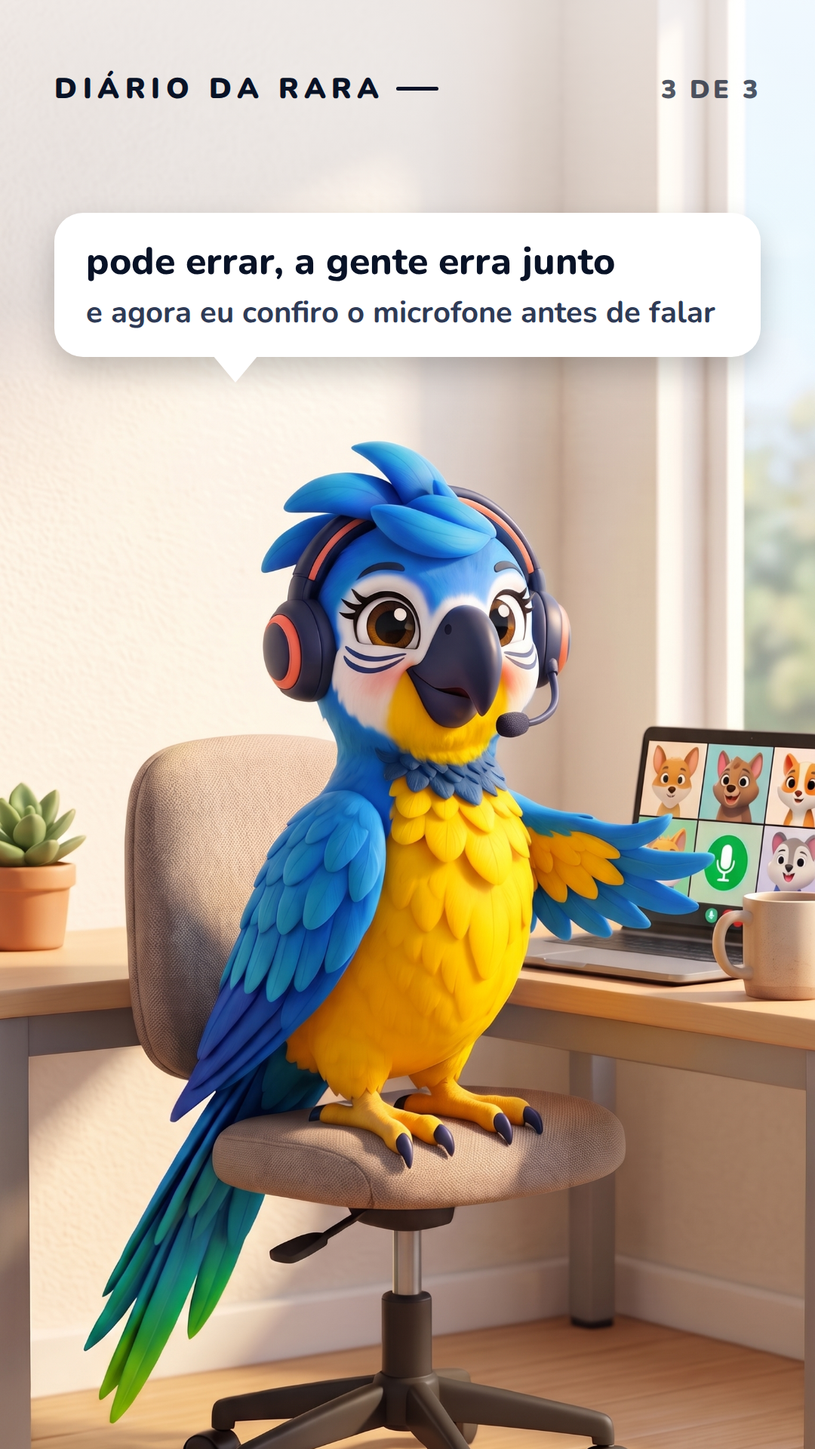
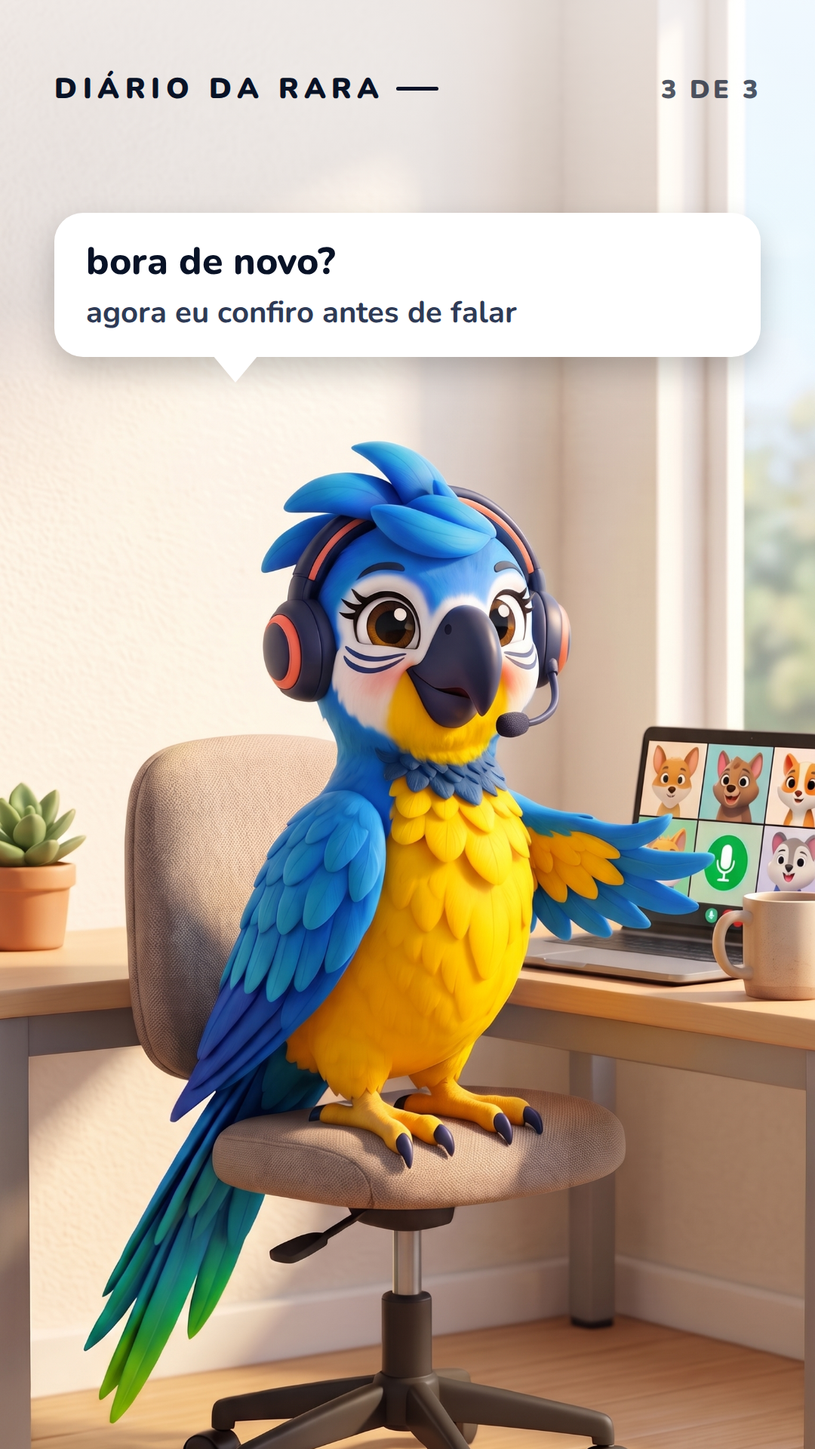
docs(arara): bordão 'Bora de novo?' (escolha do Rodrigo)

Changed region(s): [[0.1222, 0.1562, 0.7639, 0.25], [0.7944, 0.1875, 0.8556, 0.2188]]

diff --git a/semana1/_scripts/diario_qua_3.html b/semana1/_scripts/diario_qua_3.html
@@ -16,7 +16,7 @@
 </style></head><body><div id="post">
 <div class="bg" style="background-image:url('../../semana_23_29_diario/geradas/qua_3.jpg')"></div><div class="veil"></div>
 <div class="sel">DIÁRIO DA RARA</div><div class="pg">3 DE 3</div>
-<div class="bal" id="bal" style=""><div>pode errar, a gente erra junto</div><small>e agora eu confiro o microfone antes de falar</small></div></div>
+<div class="bal" id="bal" style=""><div>bora de novo?</div><small>agora eu confiro antes de falar</small></div></div>
 <script>
 const b=document.getElementById('bal');const topo=589;const bottomMax=topo-80;
 // ancora o balão logo acima do topo do personagem (rabinho 36 px) e deixa crescer para cima

diff --git a/semana1/_scripts/diario_dom_3.html b/semana1/_scripts/diario_dom_3.html
@@ -16,7 +16,7 @@
 </style></head><body><div id="post">
 <div class="bg" style="background-image:url('../../semana_23_29_diario/geradas/dom_3.jpg')"></div><div class="veil"></div>
 <div class="sel">DIÁRIO DA RARA</div><div class="pg">3 DE 3</div>
-<div class="bal" id="bal" style=""><div>tudo bem, a gente erra junto</div><small>segunda tem mais</small></div></div>
+<div class="bal" id="bal" style=""><div>tudo bem, bora de novo?</div><small>segunda tem mais</small></div></div>
 <script>
 const b=document.getElementById('bal');const topo=648;const bottomMax=topo-80;
 // ancora o balão logo acima do topo do personagem (rabinho 36 px) e deixa crescer para cima

diff --git a/semana_23_29_diario/compor_telas.py b/semana_23_29_diario/compor_telas.py
@@ -13,7 +13,7 @@ EPS = {
  'qua': dict(img=['qua_call_v2.jpg', 'qua_2.jpg', 'qua_3.jpg'], sel='DIÁRIO DA RARA', topo=[589, 520, 589], titulo='A call que só eu ouvi', kw='só eu',
    telas=[ ['10h, call importante, eu estava inspirada'],
            ['falei por dez minutos', '<small>o microfone estava no mudo</small>'],
-           ['pode errar, a gente erra junto', '<small>e agora eu confiro o microfone antes de falar</small>'] ]),
+           ['bora de novo?', '<small>agora eu confiro antes de falar</small>'] ]),
  'sex': dict(img=['sex_fila_v1.jpg', 'sex_2.jpg', 'sex_3.jpg'], sel='DIÁRIO DA RARA', topo=[819, 819, 819], titulo='A fila da Black Friday', kw='fila',
    telas=[ ['a fila dá duas voltas no poleiro'],
            ['aprendi duas palavras na fila', '<small>sale, liquidação</small><small>discount, desconto</small>'],
@@ -25,7 +25,7 @@ EPS = {
  'dom': dict(img=['dom_resumo_v2.jpg', 'dom_2.jpg', 'dom_3.jpg'], sel='DIÁRIO DA RARA', topo=[648, 429, 648], titulo='O resumo da semana', kw='resumo',
    telas=[ ['domingo é dia de contar os micos'],
            ['errei na call, errei na fila e errei a hora de chegar'],
-           ['tudo bem, a gente erra junto', '<small>segunda tem mais</small>'] ]),
+           ['tudo bem, bora de novo?', '<small>segunda tem mais</small>'] ]),
 }
 CSS = """@font-face{font-family:'Nunito';src:url('../_fontes/Nunito.ttf');font-weight:200 1000}
 @font-face{font-family:'Mochiy';src:url('../_fontes/MochiyPopOne-Regular.ttf')}

diff --git a/rara_sistema_de_marca_v6.md b/rara_sistema_de_marca_v6.md
@@ -220,7 +220,7 @@ No app, por enquanto só cargos neutros de gênero, até existir o campo "Como p
 | Bordão | Uso |
 | --- | --- |
 | Solta o bico! | Antes de falar, quando a pessoa trava. Também é a assinatura sonora |
-| Pode errar, a gente erra junto. | Depois de qualquer erro |
+| Bora de novo?. | Depois de qualquer erro |
 | Papagaio repete. Arara conversa. | Manifesto e campanhas |
 | Bora ensaiar? | Convite para a sessão |
 | Que coisa Rara! | Acerto difícil |
@@ -622,13 +622,13 @@ Visual do Modo carente: fundo em degradê roxo para rosa, a Rara olhando para a 
 | Formato | Estrutura | Inspiração |
 | --- | --- | --- |
 | A. Rara falando | Gancho (0–2 s), fala com legenda (2–12 s), punchline em caixa alta cinética (12–14 s), cartão final | Tipografia cinética com a personagem atravessando as letras |
-| B. Cena encenada | 3 a 5 planos de 1 a 2 s num cenário real: a Rara se enrola, vira o jogo, e a moral é "Pode errar, a gente erra junto." | Plano-herói com elementos voando |
+| B. Cena encenada | 3 a 5 planos de 1 a 2 s num cenário real: a Rara se enrola, vira o jogo, e a moral é "Bora de novo?." | Plano-herói com elementos voando |
 | C. Tela do app + reação | Celular inclinado em 3D, cards da interface saltando para fora da tela, a Rara puxando a correção para fora | Celular em 3D e interface flutuando |
 | D. Meme e trend | Áudio em alta, com a Rara no lugar do personagem | Formatos virais do momento |
 | E. 16 idiomas | A Rara na frente de uma palavra gigante repetida ("ENGLISH ENGLISH", "ESPAÑOL", "日本語"...), com fundo e palavra trocando a cada batida | Produto girando diante de palavras repetidas |
 | F. Antes e depois | Frase travada em cinza ("renderizando...") e depois a frase fluente colorida, com a Rara comemorando | Revelação do render cinza para o colorido |
 | G. Abertura de marca | A Rara montada traço a traço até virar o ícone do app | Mascote montada e simplificada |
-| H. Manda o áudio | O áudio do seguidor tocando com a forma de onda na tela, a correção com trocadilho e o "Pode errar, a gente erra junto." | Formato próprio |
+| H. Manda o áudio | O áudio do seguidor tocando com a forma de onda na tela, a correção com trocadilho e o "Bora de novo?." | Formato próprio |
 
 ### 6.6 Calendário semanal
 
@@ -708,7 +708,7 @@ A Rara vive uma história contínua no perfil, não posts soltos.
 **Legendas:**
 - "Quem nunca empurrou a porta escrita PULL que atire a primeira pena."
 - "Salva esse carrossel e me agradece na reunião de segunda."
-- "Comenta a tradução. Pode errar, a gente erra junto. Eu corrijo com carinho e um trocadilho péssimo."
+- "Comenta a tradução. Bora de novo?. Eu corrijo com carinho e um trocadilho péssimo."
 
 **Pautas iniciais** (além das peças dos lotes 7 e 13):
 - Rara reage: formato "ninguém: / absolutamente ninguém: / eu na call:" com a Rara dizendo "sorry?" pela 3ª vez.
@@ -911,7 +911,7 @@ Verde e coral só aparecem como fundo ou destaque, nunca como cor de texto.
 | Meu consagrado, minha consagrada | Volta depois de sumir |
 | Comandante | Começo de trilha ou desafio |
 
-- Bordões: "Solta o bico!", "Pode errar, a gente erra junto.", "Bora ensaiar?", "Que coisa Rara!", "Guardei seu lugar.".
+- Bordões: "Solta o bico!", "Bora de novo?.", "Bora ensaiar?", "Que coisa Rara!", "Guardei seu lugar.".
 - Diante de erro, ela comemora a tentativa, faz um trocadilho com o erro e, às vezes, conta um mico dela.
 - O elogio é sempre concreto, sobre algo que a pessoa fez de verdade.
 - Nunca usa: "querido aluno", "parabéns pelo seu progresso", "você falhou", "não desista".
@@ -1276,7 +1276,7 @@ Na edição, a tela real do app (gravação) entra dentro do celular, e o card m
 | 1 | "Rara at a fancy restaurant table, raising a wing to call the waiter, confident." | "She raises her wing with exaggerated confidence." | "Give me the account, please!" |
 | 2 | "A confused waiter seen from behind, holding a bank statement, Rara in the background." | "Waiter turns slowly, comedic pause." | — |
 | 3 | "Rara covering her face with both wings, blushing, crest over one eye." | "She hides her face and peeks through the feathers." | "Pedi o extrato do banco..." |
-| 4 | "Rara holding the check proudly, big smile." | "Bouncy proud pose." | "Can I have the check, please? Pode errar, a gente erra junto." |
+| 4 | "Rara holding the check proudly, big smile." | "Bouncy proud pose." | "Can I have the check, please? Bora de novo?." |
 
 **R5. Antes e depois (10 s)**
 
@@ -1316,7 +1316,7 @@ Cenas de dupla, com as canônicas C01 e C03 como referência:
 
 Gere em 1:1 sobre #8C8C8C, remova o fundo e exporte em 512 × 512. Use as expressões e gestos dos lotes 2 e 4, mais estes itens:
 
-F01 "Solta o bico" (bico aberto com ondas de som) · F02 Pode errar, a gente erra junto. (joinha rindo) · F03 drama de novela · F04 chorando com o celular · F05 dançando · F06 dormindo no teclado · F07 café na mão, olhos de sono · F08 comemorando com confete · F09 revirando os olhos · F10 "presidente" (continência) · F11 derretendo de vergonha · F12 coração com as asas
+F01 "Solta o bico" (bico aberto com ondas de som) · F02 Bora de novo?. (joinha rindo) · F03 drama de novela · F04 chorando com o celular · F05 dançando · F06 dormindo no teclado · F07 café na mão, olhos de sono · F08 comemorando com confete · F09 revirando os olhos · F10 "presidente" (continência) · F11 derretendo de vergonha · F12 coração com as asas
 
 ### 7.13 Lote 11: datas e lojas
 
@@ -1365,7 +1365,7 @@ Os blocos [VIDEO], [VOZ RARA] e [VOZ RARO] estão na seção 10 do prompt fundam
 | QZ01 | Pergunta | "Rara pointing up toward empty space at the top of the frame where a quiz sticker will go, eyebrow-like crest feather raised, teasing grin, yellow background, character in the lower half." | Pergunta + sticker de quiz |
 | QZ02 | Suspense | "Rara biting the tip of a feather nervously, eyes darting to the side, drumroll pose, yellow background." | "E aí? Qual você marcou?" |
 | QZ03 | Acertou | "Rara jumping with joy, crest fanned out with sparkles, confetti feathers, green background." | "ACERTOU!" (Mochiy) + explicação curta |
-| QZ04 | Errou | "Rara dramatically fainting backwards onto a cushion, wing on forehead, crest drooping, coral background, funny not sad." | "Pode errar, a gente erra junto." + a resposta certa |
+| QZ04 | Errou | "Rara dramatically fainting backwards onto a cushion, wing on forehead, crest drooping, coral background, funny not sad." | "Bora de novo?." + a resposta certa |
 | QZ05 | Placar | "Rara holding a small blank scoreboard with both wings, proud, purple background." | "X% acertaram. Que coisa Rara!" |
 
 **12C. Bastidores do app**
@@ -1441,7 +1441,7 @@ Cada quadro é uma imagem separada e vira um slide do carrossel (4:5), com capa 
 | T1. A porta | 1 | "Rara confidently walking toward a glass door of a coffee shop, chest out." | — |
 | | 2 | "Rara pulling the door handle hard, the door does not move, confused." | "PUSH" na porta |
 | | 3 | "Rara pulling with both wings and one foot on the wall, crest messy, people watching inside." | — |
-| | 4 | "Rara finally pushes the door and stumbles inside, embarrassed laugh, waving at the camera." | "PUSH é empurrar. Pode errar, a gente erra junto." |
+| | 4 | "Rara finally pushes the door and stumbles inside, embarrassed laugh, waving at the camera." | "PUSH é empurrar. Bora de novo?." |
 | T2. Microfone mudo | 1 | "Rara in a video call at a desk with a laptop, wearing her headset, talking passionately with big gestures." | "Eu falando o melhor inglês da minha vida" |
 | | 2 | "Close-up of the laptop screen showing [ONÇA] in a small video window, confused face, pointing at her own ear." | — |
 | | 3 | "Rara noticing a tiny muted microphone icon shape on the laptop, frozen in horror, crest shooting up." | — |
@@ -1453,7 +1453,7 @@ Cada quadro é uma imagem separada e vira um slide do carrossel (4:5), com capa 
 | T4. O tucano exquisito | 1 | "[TUCANO] at a fancy restaurant tasting food, eyes closed with delight." | — |
 | | 2 | "The toucan telling the waiter something proudly, chest out." | "This food is very EXQUISITE!" |
 | | 3 | "Rara at the next table spitting out her drink in shock, crest shooting up." | — |
-| | 4 | "Rara explaining to the toucan with a feather tip raised, the toucan blushing." | "Exquisite é requintado. Esquisito é weird. Pode errar, a gente erra junto." |
+| | 4 | "Rara explaining to the toucan with a feather tip raised, the toucan blushing." | "Exquisite é requintado. Esquisito é weird. Bora de novo?." |
 | T5. Embarazada | 1 | "Rara at a tapas bar, blushing, covering her face with a wing." | — |
 | | 2 | "Rara telling the bartender something with an embarrassed smile." | "Estoy embarazada..." |
 | | 3 | "The whole bar cheering and clapping for Rara, someone handing her a tiny baby rattle, she is confused." | — |
@@ -1607,7 +1607,7 @@ Prompt base: "Same character as the reference image, integrated into a real phot
 | 1 | "Rara accidentally bumping into a stack of books that falls, embarrassed, cream background." | "Books fall, she flinches, then turns to the camera with a guilty smile." | "Derrubei tudo. Hora de pedir desculpas!" | — |
 | 2 | Rara E04 (vergonha) com fundo laranja | "She bows slightly with a sheepish smile." | "Sorry! Perdón! Pardon! Scusa!" | Cada palavra entra no ritmo, em Mochiy |
 | 3 | Rara G09 (asas juntas) | "She presses her wings together pleading, eyes big." | "E se for grave: I'm so sorry." | "I'M SO SORRY" |
-| 4 | Cartão final | — | "Pode errar, a gente erra junto." | falearara.com |
+| 4 | Cartão final | — | "Bora de novo?." | falearara.com |
 
 **R8. Meme e trend: "POV: você na call em inglês" (formato D, 8 s, molde para áudios em alta)**
 
@@ -1638,7 +1638,7 @@ Troque o texto e o áudio conforme a trend do momento. A estrutura de 3 planos (
 | 1 | MA02 | "She listens with eyes closed, nodding slowly to the rhythm." | Áudio real do seguidor (com autorização) | Forma de onda + "@seguidor mandou:" |
 | 2 | RP05 | "She squints and taps her beak, thinking." | "Hmm... quase, presidente!" | Frase do seguidor |
 | 3 | MA03 | "She explains with a wink, pointing up." | Correção com trocadilho | Frase corrigida |
-| 4 | QZ03 | "She jumps with joy, sparkles." | "Pode errar, a gente erra junto. Manda o próximo!" | "MANDA O SEU" |
+| 4 | QZ03 | "She jumps with joy, sparkles." | "Bora de novo?. Manda o próximo!" | "MANDA O SEU" |
 
 **R11. Palavra gigante: "SOLTA O BICO!" (inspirado em tipografia cinética, 8 s)**
 

diff --git a/destaques_instagram_plano_v1.md b/destaques_instagram_plano_v1.md
@@ -21,7 +21,7 @@ Seis no lançamento da nova identidade, nesta ordem no perfil:
 
 | # | Nome | Para que serve | Entra aqui |
 | --- | --- | --- | --- |
-| 1 | **Sobre** | Quem é a Rara e o Raro, em 5 a 6 stories | "Conheça a Rara" (seg 16/11), "Prazer, Rara" da ficha (qui 19/11), "Conheça o Raro" (a criar, antes de 28/11), "Pode errar, a gente erra junto" e "Entre no bando" (a criar) |
+| 1 | **Sobre** | Quem é a Rara e o Raro, em 5 a 6 stories | "Conheça a Rara" (seg 16/11), "Prazer, Rara" da ficha (qui 19/11), "Conheça o Raro" (a criar, antes de 28/11), "Bora de novo?" e "Entre no bando" (a criar) |
 | 2 | **Como funciona** | O passo a passo, em 4 stories | Derivados do carrossel "Como funciona 1" (ter 24/11): missão, conversa por voz, ajuda no meio, tentar de novo. Só recursos `live` |
 | 3 | **Frases** | As melhores expressões, em ordem de chegada | Os Bom dia perenes (BD01 a BD07), a melhor frase de cada Pio da Semana e o "oi" em 5 idiomas (sáb 21/11). Meta de 30 stories |
 | 4 | **Diário** | O dia a dia da Rara | Episódios do "DIÁRIO DA RARA" a partir de 23/11, só os que fazem sentido sem a data |
@@ -37,7 +37,7 @@ Os Bom dia de 16 a 22/11 já estão agendados e entram em **Frases**. O que falt
 
 | Quando | Faixa | Story | Destaque | Origem da arte |
 | --- | --- | --- | --- | --- |
-| Seg 16/11 | 13h | "Conheça a Rara", capa e a frase "pode errar, a gente erra junto" | Sobre | Recorte 9:16 do carrossel aprovado (sem arte nova) |
+| Seg 16/11 | 13h | "Conheça a Rara", capa e a frase "bora de novo?" | Sobre | Recorte 9:16 do carrossel aprovado (sem arte nova) |
 | Ter 17/11 | 13h | A melhor frase do Pio do restaurante | Frases | Recorte do slide do Pio (sem arte nova) |
 | Qua 18/11 | 13h | Frase do mico da porta ("push é empurrar") | Frases | Recorte do carrossel v7 (sem arte nova) |
 | Qui 19/11 | 13h | "Prazer, Rara", a ficha | Sobre | Recorte da ficha aprovada (sem arte nova) |
@@ -45,7 +45,7 @@ Os Bom dia de 16 a 22/11 já estão agendados e entram em **Frases**. O que falt
 | Ter 24/11 | 13h | "A missão de cada conversa" | Como funciona | Recorte do carrossel "Como funciona 1" |
 | A definir (semana 23 a 29) | 13h | "Conheça o Raro" | Sobre | Dupla Rara e Raro do acervo, a compor |
 
-Para completar o mínimo de 3 em **Sobre** e **Como funciona** antes de criar os destaques, faltam por volta de 3 stories de "Como funciona" (conversa por voz, ajuda no meio, tentar de novo) e 2 de "Sobre" ("Pode errar, a gente erra junto", "Entre no bando"). Eu os escrevo e componho por código, e eles entram nas faixas das 13h das semanas seguintes.
+Para completar o mínimo de 3 em **Sobre** e **Como funciona** antes de criar os destaques, faltam por volta de 3 stories de "Como funciona" (conversa por voz, ajuda no meio, tentar de novo) e 2 de "Sobre" ("Bora de novo?", "Entre no bando"). Eu os escrevo e componho por código, e eles entram nas faixas das 13h das semanas seguintes.
 
 **Cada story de destaque precisa de uma versão perene**, sem "hoje" nem "já no feed". Quando o story das 13h tiver essas palavras, faço um segundo story perene só para o destaque, e ele sai em outra faixa (ou fica fora). Fica registrado qual story entrou em qual destaque, com o id.
 

diff --git a/_ponte_claude/planos/PROMPT_claude_code_site_identidade_20261112.md b/_ponte_claude/planos/PROMPT_claude_code_site_identidade_20261112.md
@@ -19,7 +19,7 @@ Tarefa: aplicar a nova identidade da Arara em TODO o site (`apps/web`, repositó
 
 ## 3. Voz e copy (vale para todo texto novo)
 - Português do Brasil, caloroso, elegante, nunca infantil. O leitor é "você". O sistema fala "a gente" ou "nós". A Rara só diz "eu" quando o texto é claramente a fala dela (balão do hero, resposta do FAQ marcada como dela); fora disso, "a Rara", "a tutora". Não misture primeira e terceira pessoa para o mesmo enunciador. O Raro fala com "tu", "bah" e "tchê", devagar, com humor seco.
-- Vocabulário da marca, com moderação: bando, poleiro, pio, soltar o bico, voar, pousar certinho, ninho, "pode errar, a gente erra junto". Não use "bater asas", "ficar arara" nem "papagaio" em sentido pejorativo (o manifesto "Papagaio repete. Arara conversa." é aprovado e fica).
+- Vocabulário da marca, com moderação: bando, poleiro, pio, soltar o bico, voar, pousar certinho, ninho, "bora de novo?". Não use "bater asas", "ficar arara" nem "papagaio" em sentido pejorativo (o manifesto "Papagaio repete. Arara conversa." é aprovado e fica).
 - Frases completas, valor logo no início, uma ação principal por tela, botões e rótulos específicos ("Quero entrar na lista de espera", não "Enviar"). Mensagem de erro explica o que houve, o que fazer e onde pedir ajuda, com destino real. Jargão só com explicação acessível por teclado.
 - Verdade antes de graça: só afirme o que está `live` no app na data do deploy (conferir `features.ts`). Hoje estão `live`: missão com 3 expressões, conversa por voz com tutora de IA, ajuda na conversa (repetir mais devagar, explicar em português, traduzir a última fala), resposta digitada, 16 idiomas. A Rara como tutora dentro do app (flag `rara-persona`) estava `soon` em 12/11: se a flag não estiver ligada no lançamento, o texto fala da Rara como a personagem e "tutora de IA" como a função, sem prometer a persona no app. Sem estatística, depoimento, garantia de fluência, emprego ou prova, certificação ou urgência inventada. Níveis A1 a C1 são referência do QECR, sem equivalência com TOEFL ou IELTS.
 - Nenhum concorrente nem fornecedor de IA citado em público (`forbidden.ts`, checado no CI). Textos jurídicos longos ficam em Termos e Política.

diff --git a/semana_23_29_plano.md b/semana_23_29_plano.md
@@ -66,7 +66,7 @@ Carrossel de 6 slides. Primeira edição do "Como funciona" (cronograma da campa
 - Slide 2. "antes de começar, eu te passo 3 expressões" / "sua missão é encaixar elas na conversa". Tela da missão no celular inclinado.
 - Slide 3. "aí a gente conversa por voz, numa situação de verdade" / "tipo um check-in no hotel ou uma reunião do seu trabalho". (Exemplo de situação ilustrativo, a tela mostra o conteúdo real da captura.)
 - Slide 4. "travou no meio?" / "eu repito mais devagar, explico em português ou traduzo a minha última fala". Rara de fone, calma.
-- Slide 5. "não deu pra usar as 3?" / "tudo bem, na próxima conversa tem outra chance". Punchline Mochiy "PODE ERRAR, A GENTE ERRA JUNTO".
+- Slide 5. "não deu pra usar as 3?" / "tudo bem, na próxima conversa tem outra chance". Punchline Mochiy "BORA DE NOVO?".
 - Slide 6 (final). "Salva pra lembrar como funciona" / "e se preferir, dá pra responder escrevendo também". Rara acenando.
 Legenda
 você já entrou numa conversa em outro idioma sem saber o que dizer? 🎯
@@ -89,7 +89,7 @@ eu falando o melhor inglês da minha vida, só que no mudo 🙈
 a call inteira me ouviu pensar e ninguém ouviu eu falar
 a onça até apontou pra orelha, e eu achando que era elogio
 
-pode errar, a gente erra junto
+bora de novo?
 
 manda pra quem já fez discurso no mudo
 
@@ -173,7 +173,7 @@ Stories (2)
 - 19h Modo carente leve, hebraico. "לאט לאט" (le'at le'at) "devagarinho" / "domingo é dia de treinar devagar, mas treinar"
 
 ## Opção extra para domingo (só se você quiser post no domingo)
-Rara reage, post único. "Semana de mico, Thanksgiving e Black Friday" com punchline "PODE ERRAR, A GENTE ERRA JUNTO". Legenda pedindo para marcar um amigo.
+Rara reage, post único. "Semana de mico, Thanksgiving e Black Friday" com punchline "BORA DE NOVO?". Legenda pedindo para marcar um amigo.
 
 ---
 

diff --git a/rara_log_geracao.md b/rara_log_geracao.md
@@ -957,3 +957,4 @@ G15 italiano v2 (06/11/2026): rara_gesto_italiano_v2---ead3910f salva como gesto
 - **Perfil completo aprovado (12/11/2026, ~21h20 UTC):** foto B, bio (opção 4 sem "de papo"), nome "Arara • Aprenda idiomas com IA" e link https://falearara.com. Kit para copiar em `perfil/perfil_final.txt`. Troca manual em 15/11, com conferência depois pela API.
 - **Bordão trocado (13/11/2026, ~00h25 UTC):** Rodrigo reprovou "Errou? Treinou" e respondeu "1" à lista de sugestões: "Pode errar, a gente erra junto" (interpretei o "1" como o bordão principal; fecho curto "Bora de novo?" a confirmar). Aplicado em `posts.json` (legenda do post estreia, agendado para 16/11), legendas de grupo3 e tirinhas, `legenda_carrossel.txt`, plano da semana 23 a 29, planos de stories, marca v8, prompt do site e destaques; telas qua 3 e dom 3 do Diário recompostas ("pode errar, a gente erra junto" e "tudo bem, a gente erra junto"). NÃO alterados: logs e pareceres históricos, storyboards e peças antigas.
 - **Seg tela 2 do Diário refeita de frente (13/11/2026):** a v1 de perfil reprovada ("de lado não parece a Rara"); v2 frontal em `semana_23_29_diario/geradas/seg_2.jpg`.
+- **Bordão corrigido (13/11/2026, ~00h30 UTC):** o "1" do Rodrigo respondia à pergunta do topete (opção 1); para o bordão ele escolheu **"Bora de novo?"** (opção 10). Troquei de volta o que tinha aplicado ("Pode errar, a gente erra junto") em `posts.json` (post estreia 16/11), legendas, telas qua 3 ("bora de novo?") e dom 3 ("tudo bem, bora de novo?"), planos, marca, prompt do site e guia de estilo. Topete: opção 1 em andamento (gerar a cabeça da Rara sem topete como edição do K00 sobre cinza; teste de alinhamento para derivar o topete por diferença).

diff --git a/stories_diario_semana1_roteiro_v1.md b/stories_diario_semana1_roteiro_v1.md
@@ -13,7 +13,7 @@ Regras aplicadas: selo no topo ("DIÁRIO DA RARA" ou "HISTÓRIA DO RARO"), ficç
 Liga com a tirinha T2 do feed do dia.
 - **Tela 1.** Selo DIÁRIO DA RARA. Título "A call que só eu ouvi". Cena: Rara de fone, animada, falando com a tela. Fala: "10h, call importante, eu estava inspirada".
 - **Tela 2.** Cena: Rara parando, olhando o microfone com o ícone de mudo. Fala: "falei por dez minutos" e "o microfone estava no mudo".
-- **Tela 3.** Cena: Rara acolhendo o erro com um sorriso torto. Fala: "pode errar, a gente erra junto" e "agora eu confiro antes de falar".
+- **Tela 3.** Cena: Rara acolhendo o erro com um sorriso torto. Fala: "bora de novo?" e "agora eu confiro antes de falar".
 
 ## Sex 27/11, 19h. Diário da Rara: "A fila da Black Friday" (3 telas)
 Liga com o post do dia (Black Friday em inglês).
@@ -30,7 +30,7 @@ Liga com o post do dia (Black Friday em inglês).
 ## Dom 29/11, 19h. Diário da Rara: "O resumo da semana" (3 telas, Bastidor)
 - **Tela 1.** Selo DIÁRIO DA RARA. Título "O resumo da semana". Cena: Rara enrolada na manta de tricô no sofá, xícara no pé (pousada). Fala: "domingo é dia de contar os micos".
 - **Tela 2.** Cena: Rara contando nas penas. Fala: "errei na call, errei na fila e errei a hora de chegar".
-- **Tela 3.** Cena: Rara de olhos fechados, sorrindo. Fala: "tudo bem, a gente erra junto" e "segunda tem mais".
+- **Tela 3.** Cena: Rara de olhos fechados, sorrindo. Fala: "tudo bem, bora de novo?" e "segunda tem mais".
 
 ## Produção e conferência
 - **Montagem:** HTML com fontes aprovadas (Nunito e Mochiy Pop One), título com palavra-chave em destaque, balão saindo do bico, cenas do acervo. Texto mínimo de 40 px, terço superior livre.

diff --git a/guia_de_estilo_arara.md b/guia_de_estilo_arara.md
@@ -94,5 +94,5 @@ Rodrigo viu o vídeo de teste e aprovou ("gostei do vídeo, vamos guardar o esti
 - Reels (direção de 06/11): manter a arara antiga e buscar vídeos mais imersivos, com motion arrojado e criativo e experiência 3D. O pedido de 3D não autoriza substituir ou redesenhar a mascote. A direção não equivale à aprovação de uma peça final nem de publicação ou agendamento.
 - Referência de motion aprovada em 06/11: aberturas da Pixar, pelos princípios de atuação, peso, antecipação, pausas e som ligado à ação. A arara provoca os acontecimentos e as transições; preservar identidade própria, sem reproduzir a sequência da luminária.
 
-## Bordão (13/11/2026): "Errou? Treinou" substituído
-O Rodrigo reprovou "Errou? Treinou" por soar seco ("fala de erro, não convida"). Novo bordão principal: **"Pode errar, a gente erra junto"** (escolha "1" da lista de 12/11). O fecho curto sugerido, "Bora de novo?", aguarda confirmação. Aplicado em captions, telas do Diário e planos; registros históricos e logs ficam como estavam. Não usar "Errou? Treinou" em peça nova.
+## Bordão (13/11/2026): "Errou? Treinou" substituído por "Bora de novo?"
+O Rodrigo reprovou "Errou? Treinou" por soar seco. Escolheu como bordão principal **"Bora de novo?"** (opção 10 da lista de 12/11; uma primeira leitura minha, "Pode errar, a gente erra junto", foi descartada). Aplicado em captions, telas do Diário e planos; logs e registros históricos ficam como estavam. Não usar "Errou? Treinou" em peça nova.

diff --git a/stories_diario_rara_raro_plano_v1.md b/stories_diario_rara_raro_plano_v1.md
@@ -24,7 +24,7 @@ Cada dia combina três coisas que mudam: **expressão** (idioma em rodízio), **
 - **Selo:** a etiqueta "DIÁRIO DA RARA" (ou "HISTÓRIA DO RARO") no topo, para deixar claro que é a vida dos personagens e não caso real.
 - **Tamanho:** 1 a 3 telas, com gancho na última para a noite seguinte. Uma ação por episódio no máximo (ver o post, responder pela conversa, voltar amanhã), sem enquete.
 - **Tipos de episódio:**
-  1. **Mico da Rara:** ela erra em outro idioma e acolhe o erro ("pode errar, a gente erra junto"). Ficção, sempre da própria Rara.
+  1. **Mico da Rara:** ela erra em outro idioma e acolhe o erro ("bora de novo?"). Ficção, sempre da própria Rara.
   2. **História do Raro:** uma palavra com história, contada com o humor seco dele. **Só entra com fonte conferida** da origem da palavra.
   3. **Bastidor:** a Rara treinando, descansando, nervosa. Sem número, sem cliente, sem depoimento.
 - **Aluno nunca aparece como pessoa real.** Até 20/01 todo "aluno" é um personagem de apoio da ficção (como a capivara e a onça das tirinhas).

diff --git a/semana1/grupo3_feed/legendas_tirinhas_saudacoes.md b/semana1/grupo3_feed/legendas_tirinhas_saudacoes.md
@@ -8,7 +8,7 @@ eu falando o melhor inglês da minha vida, só que no mudo 🙈
 a call inteira me ouviu pensar e ninguém ouviu eu falar
 a onça até apontou pra orelha, e eu achando que era elogio
 
-pode errar, a gente erra junto
+bora de novo?
 
 salva esse post pra conferir o microfone antes de falar
 e manda pra quem já fez discurso de mudo
@@ -37,7 +37,7 @@ achei que ele tinha chamado o prato de esquisito
 mas exquisite quer dizer requintado, e esquisito em inglês é weird
 ele ficou vermelho, e a gente aprendeu junto
 
-pode errar, a gente erra junto
+bora de novo?
 
 salva esse post pra não confundir os dois
 e marca aquele amigo que acha que exquisite é esquisito
@@ -52,7 +52,7 @@ no espanhol, embarazada não é envergonhada, e eu descobri no bar 😳
 a plateia aplaudiu, me deram um chocalho de bebê, e eu só queria um buraco no chão
 o certo era avergonzada, claro
 
-pode errar, a gente erra junto
+bora de novo?
 
 salva esse post pra nunca mais trocar as duas
 e manda pra quem já passou vergonha em outra língua
